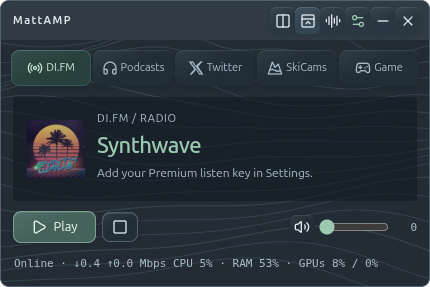
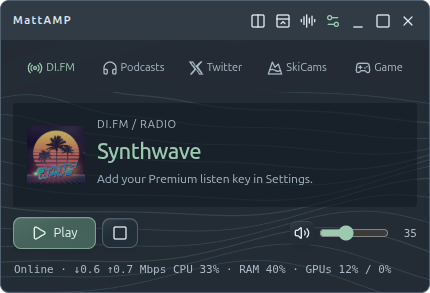
Refresh README and screenshots for lighter navigation

diff --git a/README.md b/README.md
@@ -14,7 +14,7 @@ It's a small, slightly ridiculous desktop app for Linux, Windows, and macOS: **m
 
 [Screenshots](#take-a-look-around) · [Get running](#get-running) · [SkiCams](#skicams-send-it) · [Play artillery](#tiny-tanks-questionable-decisions) · [Music & podcasts](#something-good-in-your-ears) · [Controls](#make-yourself-at-home) · [Troubleshooting](docs/guide.md#troubleshooting) · [Development](docs/development.md)
 
-![MattAMP's current five-tab navigation, Synthwave radio art, glass controls, wave background, and live workstation meters](docs/images/desktop.png)
+![MattAMP's icon-and-text tabs on a translucent bar, Synthwave radio art, wave background, and live workstation meters](docs/images/desktop.png)
 
 ## What's in the little box?
 
@@ -280,11 +280,16 @@ Sign in on X's own page inside the app. The session stays in MattAMP. **Browser*
 
 ## Make yourself at home
 
+**A lighter navigation bar:** DI.FM, Podcasts, Twitter, SkiCams, and Game are icons and text, with a soft hover highlight and mint for the active tab. The strip is 70% opaque with a subtle blur, so the live background can show through. It stays pinned as you scroll, along with the bare title-bar icons. Keyboard focus rings and full click targets remain.
+
+This navigation refresh is in the current source and CI builds; the published v0.3.0 installers have the earlier styling.
+
 | Control | What happens |
 | --- | --- |
 | Layout button | Switch between sidecar and stacked layouts |
 | Compact button | Trim the player down |
 | Bug button | Collapse to a draggable **56 × 56** logo; click it to restore |
+| Maximize / Restore | Fill the screen, then return to your previous size |
 | Settings | Your podcasts, SkiCams, radio setup, live background, and other preferences |
 | Minimize **−** | Hide to the tray |
 | Close **×** | Quit MattAMP |

diff --git a/docs/images/README.md b/docs/images/README.md
@@ -18,6 +18,6 @@ Captured from MattAMP in October 2026 using a fresh, isolated profile. These are
 | `game-widget.png` | A normal-size artillery battle, before expanding the window. |
 | `victory.png` | The app's actual WebGL victory ceremony. A winning game state was staged in the isolated profile to capture it. |
 
-The native camera and Twitter panes are included through an Electron desktop capture of the isolated app window. The settings images are cropped to their respective sections. The other images use the app window capture. Screenshots show the current source; the README marks game behavior added after the v0.2.0 release separately.
+The native camera and Twitter panes are included through an Electron desktop capture of the isolated app window. The settings images are cropped to their respective sections. The other images use the app window capture. The sidecar (`desktop.png`), stacked, and compact captures were refreshed on October 15, 2026 for the icon/text tabs, translucent pinned strip, and bare title-bar controls. Other captures illustrate their respective features with the earlier navigation styling. The published v0.3.0 installers predate this navigation refresh.
 
 Third-party camera imagery, channel art, and game artwork retain their original rights; see [arcade credits](../../assets/arcade/README.md).
